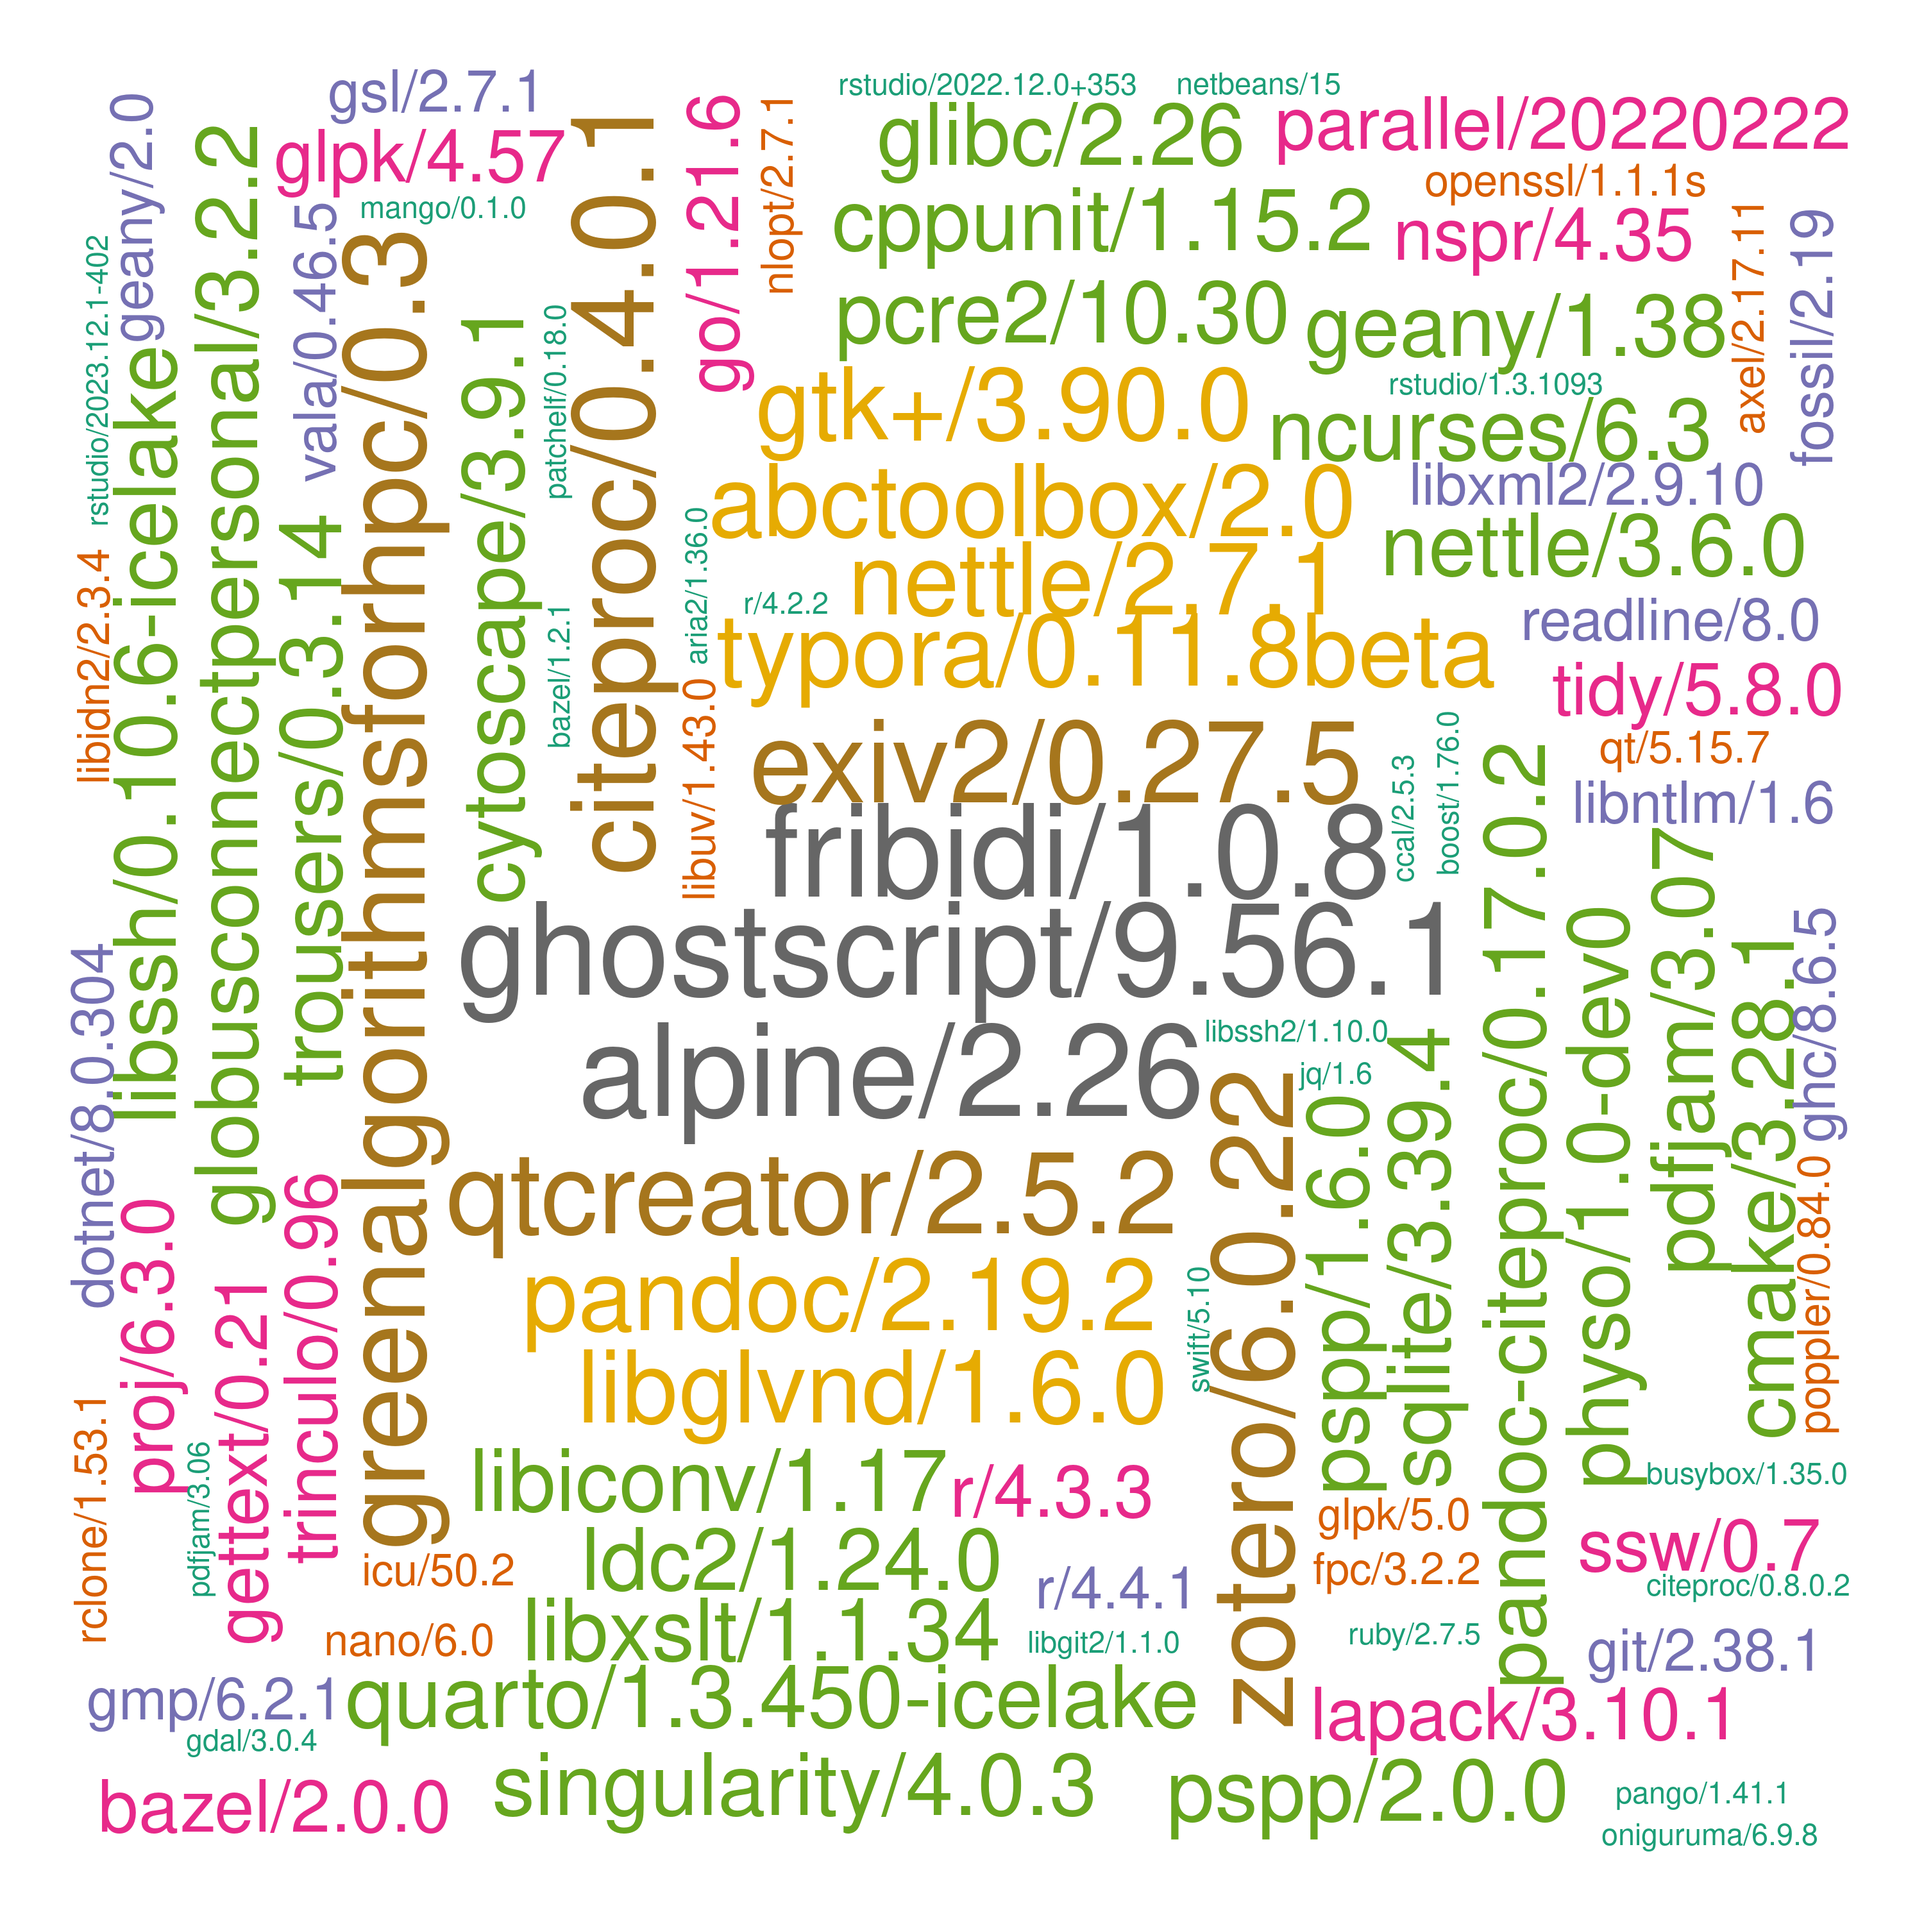
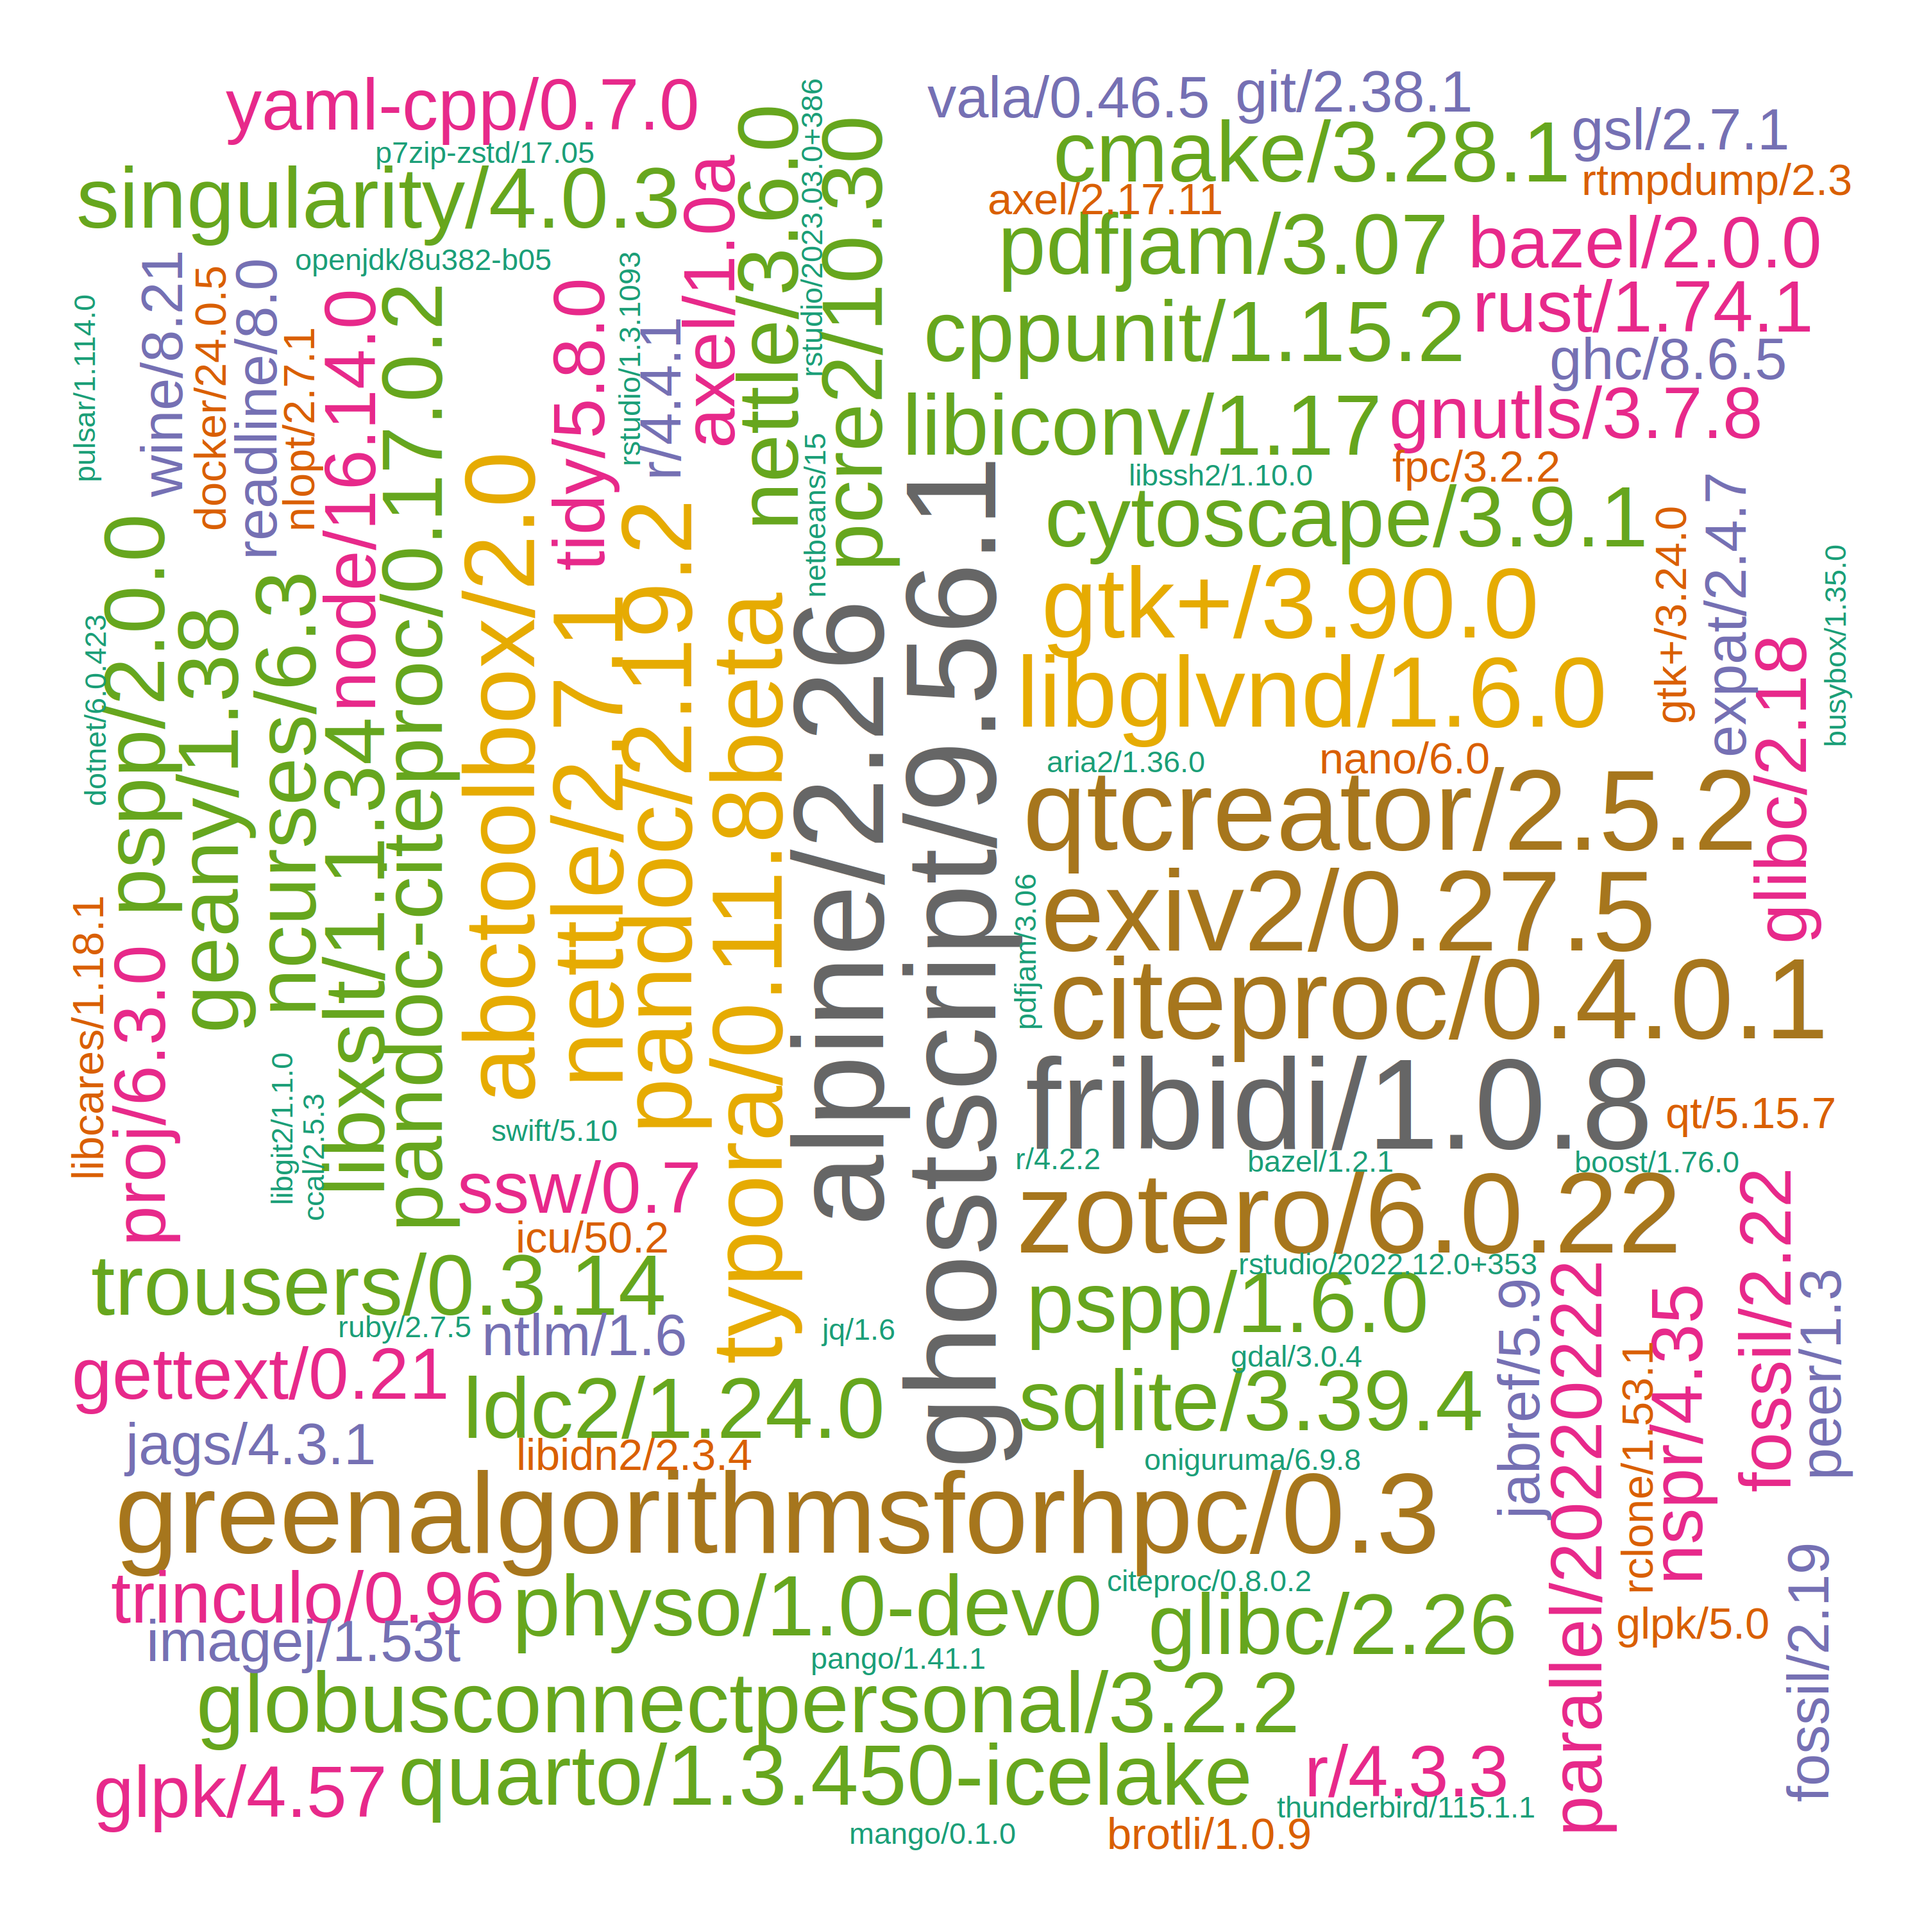
./

diff --git a/systems/ceuadmin.md b/systems/ceuadmin.md
@@ -27,56 +27,58 @@ The current list is as follows,
  [29] "cmake"                 "cppunit"               "crossmap"              "crux"
  [33] "cryptsetup"            "Cytoscape"             "deno"                  "DEPICT"
  [37] "device-mapper"         "diann"                 "DjVuLibre"             "docbook2X"
- [41] "DosageConverter"       "dotnet"                "Eagle"                 "enchant"
- [45] "ensembl-vep"           "exiv2"                 "exomeplus"             "expat"
- [49] "FastQTL"               "fcGENE"                "ffmpeg"                "fgwas"
- [53] "finemap"               "FlashLFQ"              "fossil"                "fpc"
- [57] "fraposa_pgsc"          "freesurfer"            "fribidi"               "GARFIELD"
- [61] "gatk"                  "gcta"                  "gdal"                  "gdc"
- [65] "geany"                 "GEM"                   "GEMMA"                 "Genotype-Harmonizer"
- [69] "gettext"               "gh"                    "ghc"                   "ghostscript"
- [73] "git"                   "git-extras"            "GitKraken"             "glib"
- [77] "glibc"                 "globusconnectpersonal" "glpk"                  "gmp"
- [81] "gnutls"                "go"                    "googletest"            "graphene"
- [85] "GraphicsMagick"        "GreenAlgorithms4HPC"   "gsl"                   "gtk+"
- [89] "gtksourceview"         "gtool"                 "hpg"                   "htslib"
- [93] "hunspell"              "icu"                   "ImageJ"                "ImageMagick"
- [97] "impute"                "JabRef"                "JAGS"                  "jq"
-[101] "json-c"                "KentUtils"             "KING"                  "krb5"
-[105] "lapack"                "ldc2"                  "ldsc"                  "LDstore"
-[109] "LEMMA"                 "libcares"              "libgit2"               "libglvnd"
-[113] "libiconv"              "libidn2"               "libntlm"               "libpng"
-[117] "libseccomp"            "libsodium"             "libssh"                "libssh2"
-[121] "libuv"                 "libxml2"               "libxslt"               "locuszoom"
-[125] "LVM2"                  "MAGENTA"               "magma"                 "Mango"
-[129] "Mega2"                 "metal"                 "MetaMorpheus"          "MONSTER"
-[133] "MORGAN"                "MR-MEGA"               "MsCAVIAR"              "msms"
-[137] "nano"                  "ncbi-vdb"              "ncurses"               "netbeans"
-[141] "nettle"                "nextflow"              "nlopt"                 "NLopt"
-[145] "node"                  "nspr"                  "oniguruma"             "openjdk"
-[149] "OpenMS"                "openssh"               "openssl"               "osca"
-[153] "p7zip-zstd"            "PAINTOR"               "pandoc"                "pandoc-citeproc"
-[157] "pango"                 "parallel"              "Pascal"                "patchelf"
-[161] "pcre2"                 "pdf2djvu"              "pdfjam"                "peer"
-[165] "pgsc_calc"             "phenoscanner"          "PhySO"                 "picard"
-[169] "plink"                 "plink-bgi"             "plinkseq"              "PoGo"
-[173] "polyphen"              "poppler"               "popt"                  "proj"
-[177] "PRSice"                "pspp"                  "pulsar"                "PWCoCo"
-[181] "pwiz"                  "qctool"                "qpdf"                  "qt"
-[185] "qtcreator"             "QTLtools"              "quarto"                "quicktest"
-[189] "R"                     "raremetal"             "rclone"                "readline"
-[193] "regenie"               "regtools"              "RHHsoftware"           "rst2pdf"
-[197] "rstudio"               "rtmpdump"              "ruby"                  "rust"
-[201] "samtools"              "Scala"                 "seqkit"                "shapeit"
-[205] "singularity"           "SMR"                   "snakemake"             "SNP2HLA"
-[209] "snptest"               "spread-sheet-widget"   "spyder"                "sqlite"
-[213] "sra-tools"             "ssw"                   "STAR"                  "stata"
-[217] "SurvivalAnalysis"      "SurvivalKit"           "Swift"                 "tabix"
-[221] "tatami"                "thunderbird"           "tidy"                  "trinculo"
-[225] "trousers"              "Typora"                "unbound"               "vala"
-[229] "VarScan"               "vcftools"              "VEGAS2"                "verifyBamID"
-[233] "VSCode"                "VSCodium"              "vte"                   "wine"
-[237] "xpdf"                  "yaml-cpp"              "Zotero"                "zstd"
+ [41] "docker"                "DosageConverter"       "dotnet"                "Eagle"
+ [45] "enchant"               "ensembl-vep"           "exiv2"                 "exomeplus"
+ [49] "expat"                 "FastQTL"               "fcGENE"                "ffmpeg"
+ [53] "fgwas"                 "finemap"               "FlashLFQ"              "fossil"
+ [57] "fpc"                   "fraposa_pgsc"          "freesurfer"            "fribidi"
+ [61] "GARFIELD"              "gatk"                  "gcta"                  "gdal"
+ [65] "gdc"                   "geany"                 "GEM"                   "GEMMA"
+ [69] "Genotype-Harmonizer"   "gettext"               "gh"                    "ghc"
+ [73] "ghostscript"           "git"                   "git-extras"            "GitKraken"
+ [77] "glib"                  "glibc"                 "globusconnectpersonal" "glpk"
+ [81] "gmp"                   "gnutls"                "go"                    "googletest"
+ [85] "graphene"              "GraphicsMagick"        "GreenAlgorithms4HPC"   "gsl"
+ [89] "gtk+"                  "gtksourceview"         "gtool"                 "hpg"
+ [93] "htslib"                "hunspell"              "icu"                   "ImageJ"
+ [97] "ImageMagick"           "impute"                "JabRef"                "JAGS"
+[101] "jq"                    "json-c"                "KentUtils"             "KING"
+[105] "krb5"                  "lapack"                "ldc2"                  "ldsc"
+[109] "LDstore"               "LEMMA"                 "libcares"              "libgit2"
+[113] "libglvnd"              "libiconv"              "libidn2"               "libntlm"
+[117] "libpng"                "libseccomp"            "libsodium"             "libssh"
+[121] "libssh2"               "libuv"                 "libxml2"               "libxslt"
+[125] "locuszoom"             "LVM2"                  "MAGENTA"               "magma"
+[129] "Mango"                 "Mega2"                 "metal"                 "MetaMorpheus"
+[133] "MONSTER"               "MORGAN"                "MR-MEGA"               "MsCAVIAR"
+[137] "msms"                  "nano"                  "ncbi-vdb"              "ncurses"
+[141] "netbeans"              "nettle"                "nextflow"              "nlopt"
+[145] "NLopt"                 "node"                  "nspr"                  "ntlm"
+[149] "oniguruma"             "openjdk"               "OpenMS"                "openssh"
+[153] "openssl"               "osca"                  "p7zip-zstd"            "PAINTOR"
+[157] "pandoc"                "pandoc-citeproc"       "pango"                 "parallel"
+[161] "Pascal"                "patchelf"              "pcre2"                 "pdf2djvu"
+[165] "pdfjam"                "peer"                  "pgsc_calc"             "phenoscanner"
+[169] "PhySO"                 "picard"                "plink"                 "plink-bgi"
+[173] "plinkseq"              "podman"                "PoGo"                  "polyphen"
+[177] "poppler"               "popt"                  "proj"                  "PRSice"
+[181] "pspp"                  "pulsar"                "PWCoCo"                "pwiz"
+[185] "qctool"                "qemu"                  "qpdf"                  "qt"
+[189] "qtcreator"             "QTLtools"              "quarto"                "quicktest"
+[193] "R"                     "raremetal"             "rclone"                "readline"
+[197] "regenie"               "regtools"              "RHHsoftware"           "rst2pdf"
+[201] "rstudio"               "rtmpdump"              "ruby"                  "rust"
+[205] "samtools"              "Scala"                 "seqkit"                "shapeit"
+[209] "singularity"           "SMR"                   "snakemake"             "SNP2HLA"
+[213] "snptest"               "spread-sheet-widget"   "spyder"                "sqlite"
+[217] "sra-tools"             "sshpass"               "ssw"                   "STAR"
+[221] "stata"                 "SurvivalAnalysis"      "SurvivalKit"           "Swift"
+[225] "tabix"                 "tatami"                "thunderbird"           "tidy"
+[229] "trinculo"              "trousers"              "Typora"                "unbound"
+[233] "vala"                  "VarScan"               "vcftools"              "VEGAS2"
+[237] "verifyBamID"           "VSCode"                "VSCodium"              "vte"
+[241] "wine"                  "xpdf"                  "yaml-cpp"              "Zotero"
+[245] "zstd"
 ```
 
 These are wrapped up as :star::star::star: **[modules](https://modules.readthedocs.io/en/latest/index.html)** :star::star::star:.

diff --git a/systems/setup.md b/systems/setup.md
@@ -292,6 +292,8 @@ All entries are ordered chronologically.
 | ""          | docker/27.0.3                    | Generic              |
 | 2024-07-05  | sshpass/1.10                     | Generic              |
 | ""          | podman/5.1.1                     | Generic[^podman]     |
+| 2024-07-09  | ntlm/1.6                         | Generic              |
+| 2024-07-09  | alpine/2.26-icelake              | Generic[^alpine]     |
 
 \* CEU or approved users only.
 
@@ -1181,3 +1183,7 @@ They are generated from script [setup.sh](setup.sh),
     podman pull docker.io/library/hello-world
     podman run --rm docker.io/library/hello-world
     ```
+
+[^alpine]: **alpine**
+
+    Module `ceuadmin/alpine/2.26-icelake` compiled using `gcc/11.2.0/gcc/rjvgspag`.
